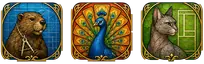
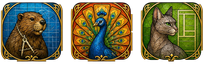
Fix transparency in BetterIcon hover previews

diff --git a/tools/build-pack-previews.py b/tools/build-pack-previews.py
@@ -50,7 +50,8 @@ def main():
         if name != label:
             name += "-" + hashlib.sha256(label.encode()).hexdigest()[:10]
         name += ".webp"
-        strip.save(OUTPUT / name, format="WEBP", quality=72, method=6)
+        # The shipped Windows decoder can drop alpha from lossy WebP previews.
+        strip.save(OUTPUT / name, format="WEBP", lossless=True, method=6)
         data = (OUTPUT / name).read_bytes()
         group = "Zach" if author == "OmegaDarling" else author
         catalog.append((f"Craft-Icons-{group}/{theme}", name, hashlib.sha256(data).hexdigest(), str(len(data)), ",".join(apps)))
